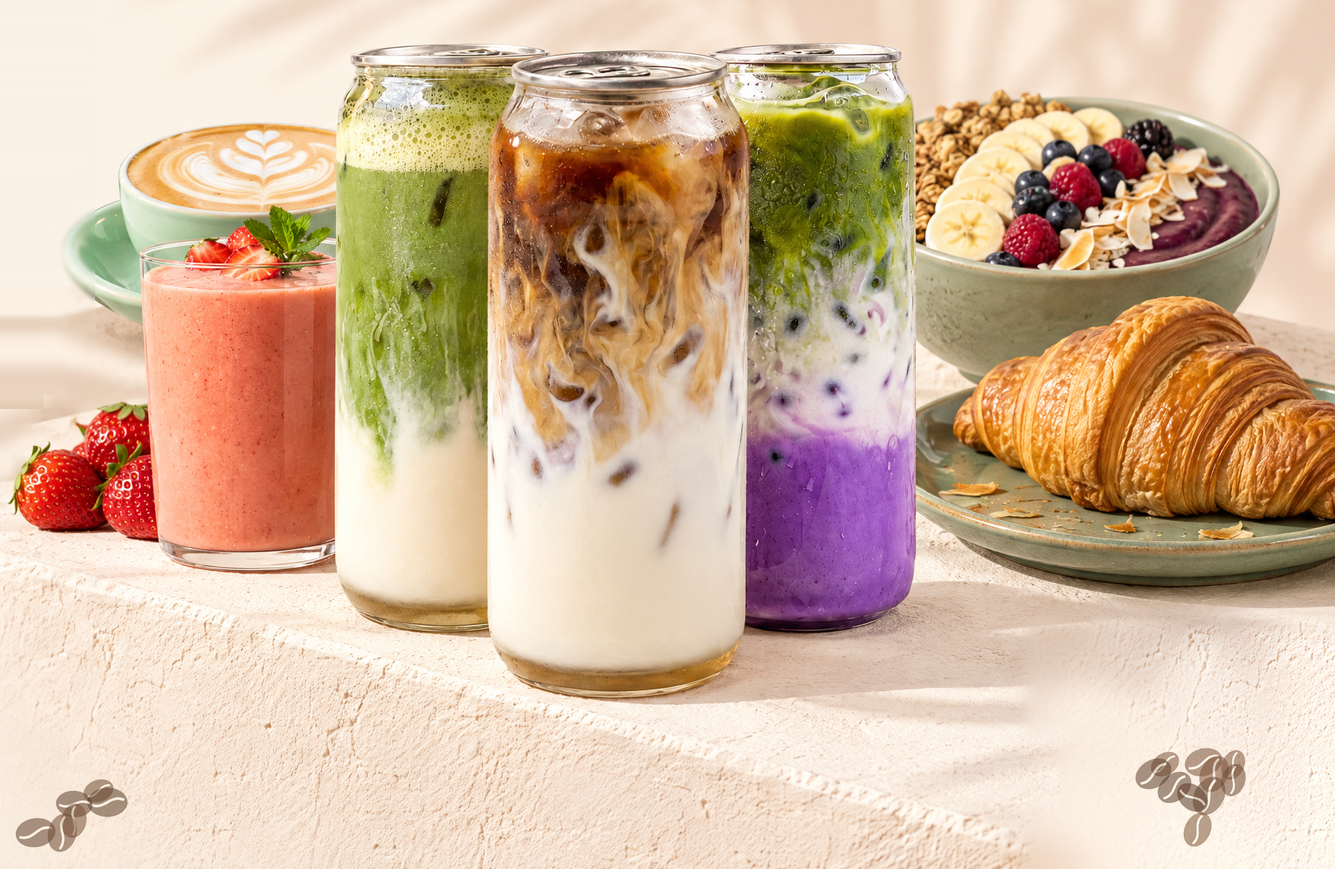
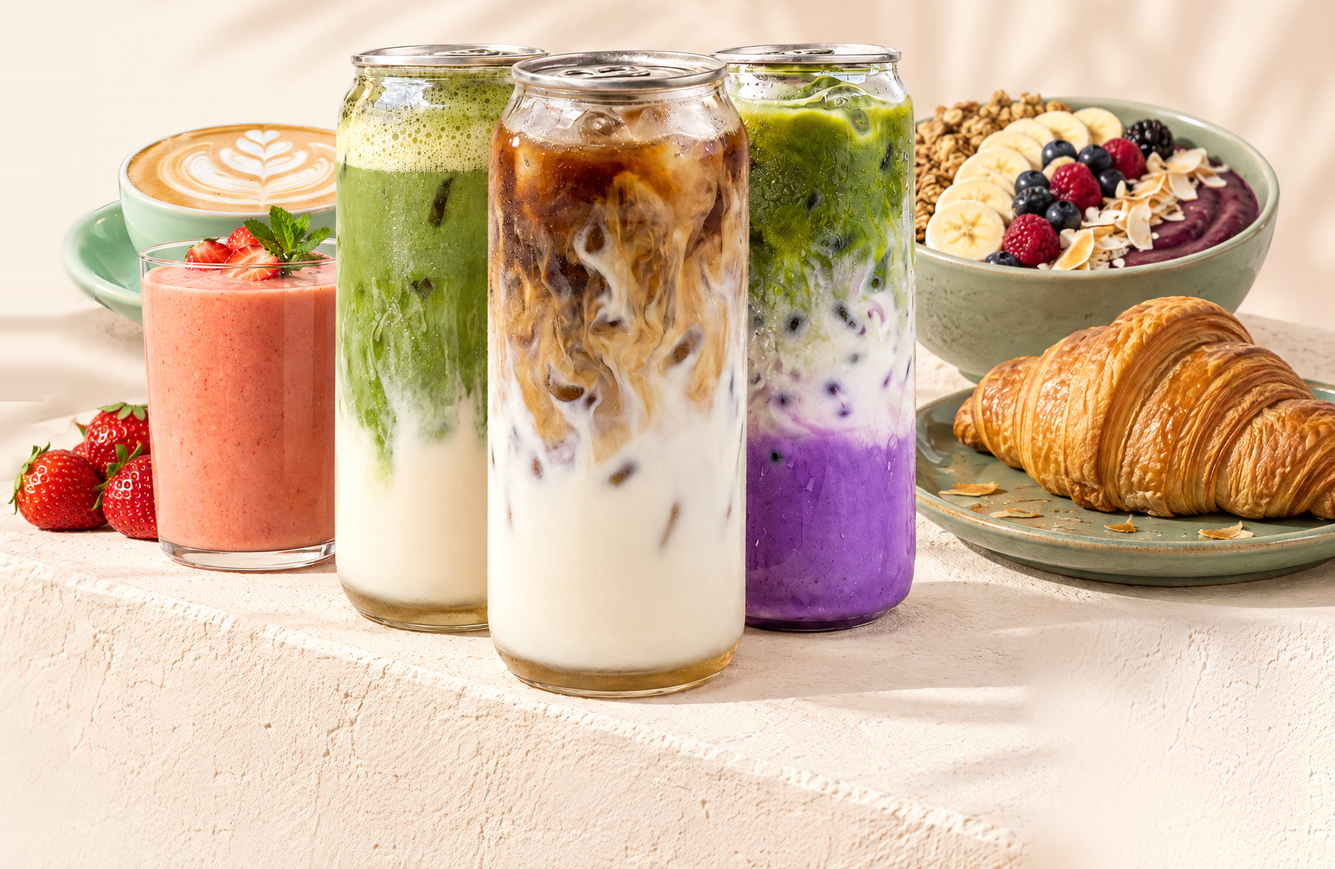
Competition: TV display version, offer bar, palm-leaf scene
- /competition/screen: full-screen display version (no site chrome, QR always on)
- /competition: site header + 10%-off subscribe bar above the poster
- Drinks scene without bean clusters; tall crop with the palm-leaf shadow on
  big screens, tighter crop on phones

Claude-Session: https://claude.ai/code/session_01A7MWxnEnuKaekbHkmPvhF7

Changed region(s): [[0.8419, 0.8395, 0.9354, 0.995], [0.0, 0.9017, 0.0935, 0.995], [0.0, 0.4353, 0.0312, 0.4664]]

diff --git a/src/features/competition/CompetitionPoster.tsx b/src/features/competition/CompetitionPoster.tsx
@@ -17,6 +17,9 @@ import { competitionCopy } from './copy';
 
 const ESPRESSO = '#3B2A20';
 
+const SCENE_ALT =
+  'Iced matcha vanilla, iced latte and iced ube matcha in can glasses, with a hot latte, strawberry smoothie, açaí bowl and croissant';
+
 /** Soft fade on the photo's left and top edges so it melts into the cream. */
 const SCENE_MASK = {
   // Phone: full-bleed, so only the top and bottom edges need to soften.
@@ -25,25 +28,6 @@ const SCENE_MASK = {
   // left and top where it meets the text column.
   md: 'linear-gradient(to right, transparent 0%, #000 14%), linear-gradient(to bottom, transparent 0%, #000 12%)',
 };
-
-/** A few small bean clusters for texture, drawn in SVG so they stay crisp. */
-function Beans({ sx }: { sx: object }) {
-  const beans = [
-    [14, 14, 20], [34, 10, -35], [24, 30, 60], [46, 26, 10], [8, 36, -60], [40, 44, 40],
-  ];
-  return (
-    <Box aria-hidden sx={{ position: 'absolute', pointerEvents: 'none', ...sx }}>
-      <svg viewBox="0 0 56 56" width="100%" height="100%">
-        {beans.map(([x, y, r], i) => (
-          <g key={i} transform={`translate(${x} ${y}) rotate(${r})`} opacity={0.5}>
-            <ellipse rx="5.2" ry="7.4" fill="#6F4C34" />
-            <path d="M0,-6 C2,-2 -2,2 0,6" stroke={brand.cream} strokeWidth="1.1" fill="none" strokeLinecap="round" />
-          </g>
-        ))}
-      </svg>
-    </Box>
-  );
-}
 
 function StepPill({ n, text, bg }: { n: number; text: string; bg: string }) {
   return (
@@ -87,7 +71,21 @@ function StepPill({ n, text, bg }: { n: number; text: string; bg: string }) {
   );
 }
 
-export function CompetitionPoster({ lang }: { lang: Lang }) {
+export function CompetitionPoster({
+  lang,
+  variant = 'page',
+}: {
+  lang: Lang;
+  /**
+   * `page`: the responsive web page, sitting under the site header and the
+   * offer bar. `screen`: the in-café display — fills the whole screen, always
+   * shows the QR code, no "Enter now" button.
+   */
+  variant?: 'page' | 'screen';
+}) {
+  const isScreen = variant === 'screen';
+  // Space taken above the hero on big screens (header + offer bar on the page).
+  const above = isScreen ? '0px' : '120px';
   const c = competitionCopy(lang);
   const termsHref = localePath(lang, '/competition-terms');
 
@@ -100,7 +98,7 @@ export function CompetitionPoster({ lang }: { lang: Lang }) {
         overflow: 'hidden',
         // Warm cream with a soft light pool, like the poster's morning light.
         background: 'radial-gradient(120% 90% at 70% 15%, #FCF5EC 0%, #FAF0E5 55%, #F4E6D7 100%)',
-        height: { md: 'calc(100svh - 76px)' },
+        height: { md: `calc(100svh - ${above})` },
         minHeight: { md: 600 },
         display: 'grid',
         gridTemplateColumns: { xs: '1fr', md: 'minmax(0, 40fr) minmax(0, 60fr)' },
@@ -112,8 +110,6 @@ export function CompetitionPoster({ lang }: { lang: Lang }) {
         pb: { xs: 4, md: 'clamp(20px, 3.5vh, 48px)' },
       }}
     >
-      <Beans sx={{ top: { xs: 10, md: '2vw' }, left: { xs: 8, md: '36vw' }, width: { xs: 54, md: '5vw' }, height: { xs: 54, md: '5vw' } }} />
-      <Beans sx={{ top: { xs: 10, md: '2vw' }, right: { xs: 8, md: '2vw' }, width: { xs: 54, md: '5.5vw' }, height: { xs: 54, md: '5.5vw' }, transform: 'scaleX(-1)' }} />
 
       {/* Headline */}
       <Box sx={{ gridArea: 'head', textAlign: { xs: 'center', md: 'left' }, position: 'relative', zIndex: 5 }}>
@@ -159,8 +155,14 @@ export function CompetitionPoster({ lang }: { lang: Lang }) {
           justifySelf: { md: 'end' },
           // Width-led on phones; on big screens capped by the hero's height so
           // the drinks never push the text column or spill off the bottom.
-          width: { xs: 'calc(100% + 40px)', sm: 'calc(100% + 64px)', md: 'min(calc(100% + 4vw), calc((100svh - 76px - 5vh) * 1.536))' },
-          aspectRatio: '1828 / 1190',
+          width: {
+            xs: 'calc(100% + 40px)',
+            sm: 'calc(100% + 64px)',
+            md: `min(calc(100% + 4vw), calc((100svh - ${above} - 5vh) * 1.2026))`,
+          },
+          // Phones use the tighter crop; big screens the tall one with the
+          // palm-leaf shadow above the drinks.
+          aspectRatio: { xs: '1828 / 1190', md: '1828 / 1520' },
           WebkitMaskImage: SCENE_MASK,
           maskImage: SCENE_MASK,
           WebkitMaskComposite: 'source-in',
@@ -174,14 +176,12 @@ export function CompetitionPoster({ lang }: { lang: Lang }) {
           maxWidth: { md: 'calc(100% + 4vw)' },
         }}
       >
-        <Image
-          src="/media/competition/drinks-scene.png"
-          alt="Iced matcha vanilla, iced latte and iced ube matcha in can glasses, with a hot latte, strawberry smoothie, açaí bowl and croissant"
-          fill
-          priority
-          sizes="(max-width: 899px) 100vw, 62vw"
-          style={{ objectFit: 'cover', objectPosition: 'center bottom' }}
-        />
+        <Box sx={{ position: 'absolute', inset: 0, display: { xs: 'block', md: 'none' } }}>
+          <Image src="/media/competition/drinks-scene.png" alt={SCENE_ALT} fill priority sizes="100vw" style={{ objectFit: 'cover' }} />
+        </Box>
+        <Box sx={{ position: 'absolute', inset: 0, display: { xs: 'none', md: 'block' } }}>
+          <Image src="/media/competition/drinks-scene-tall.png" alt={SCENE_ALT} fill priority sizes="62vw" style={{ objectFit: 'cover' }} />
+        </Box>
       </Box>
 
       {/* Steps */}
@@ -205,7 +205,7 @@ export function CompetitionPoster({ lang }: { lang: Lang }) {
           component="a"
           href="#enter"
           sx={{
-            display: { xs: 'inline-flex', md: 'none' },
+            display: isScreen ? 'none' : { xs: 'inline-flex', md: 'none' },
             mt: 1.5,
             px: 4,
             py: 1.6,
@@ -232,7 +232,7 @@ export function CompetitionPoster({ lang }: { lang: Lang }) {
           zIndex: 5,
         }}
       >
-        <Box sx={{ display: { xs: 'none', md: 'flex' }, alignItems: 'center', gap: '1.6vw', mb: '2.2vw' }}>
+        <Box sx={{ display: isScreen ? 'flex' : { xs: 'none', md: 'flex' }, justifyContent: { xs: 'center', md: 'flex-start' }, alignItems: 'center', gap: { xs: 2, md: '1.6vw' }, mb: { xs: 2, md: '2.2vw' } }}>
           {/* eslint-disable-next-line @next/next/no-img-element */}
           <img
             src="/media/competition/qr.svg"

diff --git a/src/features/competition/OfferBar.tsx b/src/features/competition/OfferBar.tsx
@@ -1,0 +1,49 @@
+'use client';
+
+import { useState } from 'react';
+import Box from '@mui/material/Box';
+import ButtonBase from '@mui/material/ButtonBase';
+import { FirstVisitDialog } from '@/components/marketing/FirstVisitDialog';
+import { markOfferSeen } from '@/components/marketing/offerSeen';
+import { useLanguage } from '@/i18n/LanguageProvider';
+import { brand } from '@/theme/brand';
+
+/**
+ * Slim newsletter / 10%-off bar for the top of the competition page. Opens the
+ * site's existing subscribe dialog (source `announcement_bar`), which issues
+ * and emails the code exactly as the first-visit popup does.
+ */
+export function OfferBar() {
+  const { t } = useLanguage();
+  const [open, setOpen] = useState(false);
+
+  return (
+    <>
+      <ButtonBase
+        onClick={() => setOpen(true)}
+        sx={{
+          width: '100%',
+          minHeight: 44,
+          px: 2,
+          py: 1,
+          backgroundColor: brand.rosePink,
+          color: '#3B2A20',
+          fontFamily: 'inherit',
+          fontSize: { xs: '0.9rem', md: '0.95rem' },
+          fontWeight: 500,
+          textAlign: 'center',
+          gap: 1,
+          '&:hover': { backgroundColor: brand.rosePinkPress },
+        }}
+      >
+        <span>
+          {t.popup.headline} · {t.popup.body}
+        </span>
+        <Box component="span" sx={{ fontWeight: 600, textDecoration: 'underline', textUnderlineOffset: '3px', whiteSpace: 'nowrap' }}>
+          {t.popup.cta} →
+        </Box>
+      </ButtonBase>
+      {open && <FirstVisitDialog source="announcement_bar" onSeen={markOfferSeen} onClose={() => setOpen(false)} />}
+    </>
+  );
+}

diff --git a/src/app/(screen)/layout.tsx b/src/app/(screen)/layout.tsx
@@ -1,0 +1,27 @@
+import type { Metadata, Viewport } from 'next';
+import { AppRouterCacheProvider } from '@mui/material-nextjs/v15-appRouter';
+import { fontVariables } from '@/theme/fonts';
+
+/**
+ * Bare root layout for the in-café display: no header, footer, cart, offer bar
+ * or popups — just the poster filling the screen.
+ */
+export const metadata: Metadata = {
+  title: 'Easy Beans Coffee',
+  robots: { index: false, follow: false },
+};
+
+export const viewport: Viewport = { themeColor: '#FAF0E5' };
+
+export default function ScreenLayout({ children }: { children: React.ReactNode }) {
+  return (
+    <html lang="en" className={fontVariables}>
+      <head>
+        <style>{'*,*::before,*::after{box-sizing:border-box}'}</style>
+      </head>
+      <body style={{ margin: 0, background: '#FAF0E5', overflow: 'hidden', cursor: 'none', fontFamily: 'var(--font-figtree), sans-serif' }}>
+        <AppRouterCacheProvider>{children}</AppRouterCacheProvider>
+      </body>
+    </html>
+  );
+}

diff --git a/src/app/(site)/[lang]/competition/page.tsx b/src/app/(site)/[lang]/competition/page.tsx
@@ -6,6 +6,7 @@ import { isLang } from '@/i18n/config';
 import { brand, radius } from '@/theme/brand';
 import { CompetitionPoster } from '@/features/competition/CompetitionPoster';
 import { CompetitionForm } from '@/features/competition/CompetitionForm';
+import { OfferBar } from '@/features/competition/OfferBar';
 import { competitionCopy } from '@/features/competition/copy';
 
 export async function generateMetadata({ params }: { params: Promise<{ lang: string }> }): Promise<Metadata> {
@@ -35,6 +36,7 @@ export default async function CompetitionPage({
 
   return (
     <Box sx={{ backgroundColor: brand.cream }}>
+      <OfferBar />
       <CompetitionPoster lang={lang} />
 
       <Container maxWidth="sm" sx={{ py: { xs: 4, md: 6 } }}>

diff --git a/src/app/(screen)/competition/screen/page.tsx b/src/app/(screen)/competition/screen/page.tsx
@@ -1,0 +1,10 @@
+import { CompetitionPoster } from '@/features/competition/CompetitionPoster';
+
+/**
+ * In-café display version of the competition poster (TV / monitor). Same
+ * layout as the web page, full screen, QR code always visible. Open
+ * easybeanscoffee.com/competition/screen on the display's browser.
+ */
+export default function CompetitionScreenPage() {
+  return <CompetitionPoster lang="en" variant="screen" />;
+}
